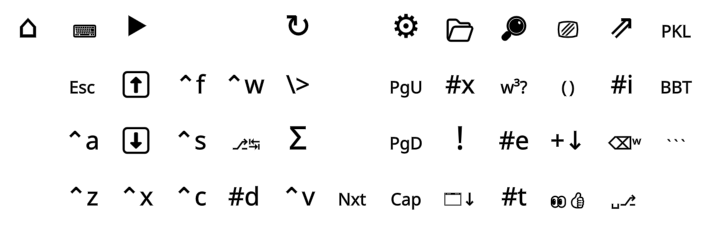
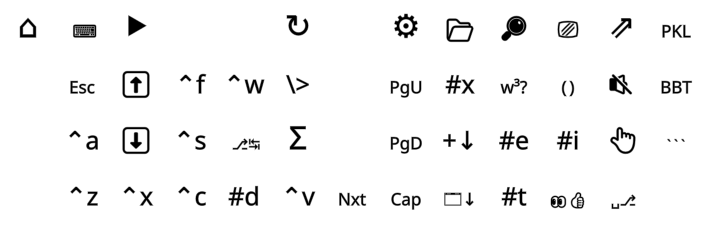
Ext-Tap updates
* Filled in the last entries
* Mute, LMB Click
* Moved Gmk `URL` to Oo for position consistency

Changed region(s): [[0.7812, 0.5575, 0.9062, 0.6814], [0.8438, 0.3097, 0.9062, 0.4336], [0.625, 0.5575, 0.6875, 0.6814]]

diff --git a/Source/EPKL_Source/README.md b/Source/EPKL_Source/README.md
@@ -643,9 +643,10 @@ VERSION HISTORY:
 		- Made a `ŁayÐir` special run-target syntax for the active layout's folder. This is now the default for runTarget().
 	- Made ortho naming more consistent. There were some layouts using `Orth`, and others `Ortho`. Now all are `Orth`.
 		- Technically, you can use both as KbdType. But it's inconsistent to say `ANS-Ortho`, instead of `ANS-Orth` or `ANSI-Ortho`.
-	- Minor CoDeKey rework. Swapped `^`/`~` to Cmk J/B, added ` ... ` on `.` and triple-backtick on Cmk Shift+P.
+	- Minor CoDeKey and Ext-Tap rework. Swapped `^`/`~` to Cmk J/B, added ` ... ` on `.` and triple-backtick on Cmk Shift+P.
 		- On ortho boards at least,`^` now sits right under 6. And the fancy 3-`` PowerString doesn't work on Discord.
-		- Also added Enter+Shift and Enter-Bullet-Space-Shift mappings.
+		- Also added Enter+Shift and Enter-Bullet-Space-Shift mappings on CodeKey.
+		- Filled in the last missing mappings on Ext-Tap (the Ext_Special DK), making Colemak and Gralmak a little more consistent.
 	- Fixed: Hitting Enter when any DK was active would output Ctrl+Shift+J, which opens the Parent Process Browser Console in Firefox.
 		- Adding `{Enter}` to `endDKs` (the list of keys that cancel DKs) solved the issue.
 	- Shift/AltGr+Repeat now repeats 2–4 times (2:Sh,3:AGr,4:Sh+AGr).
